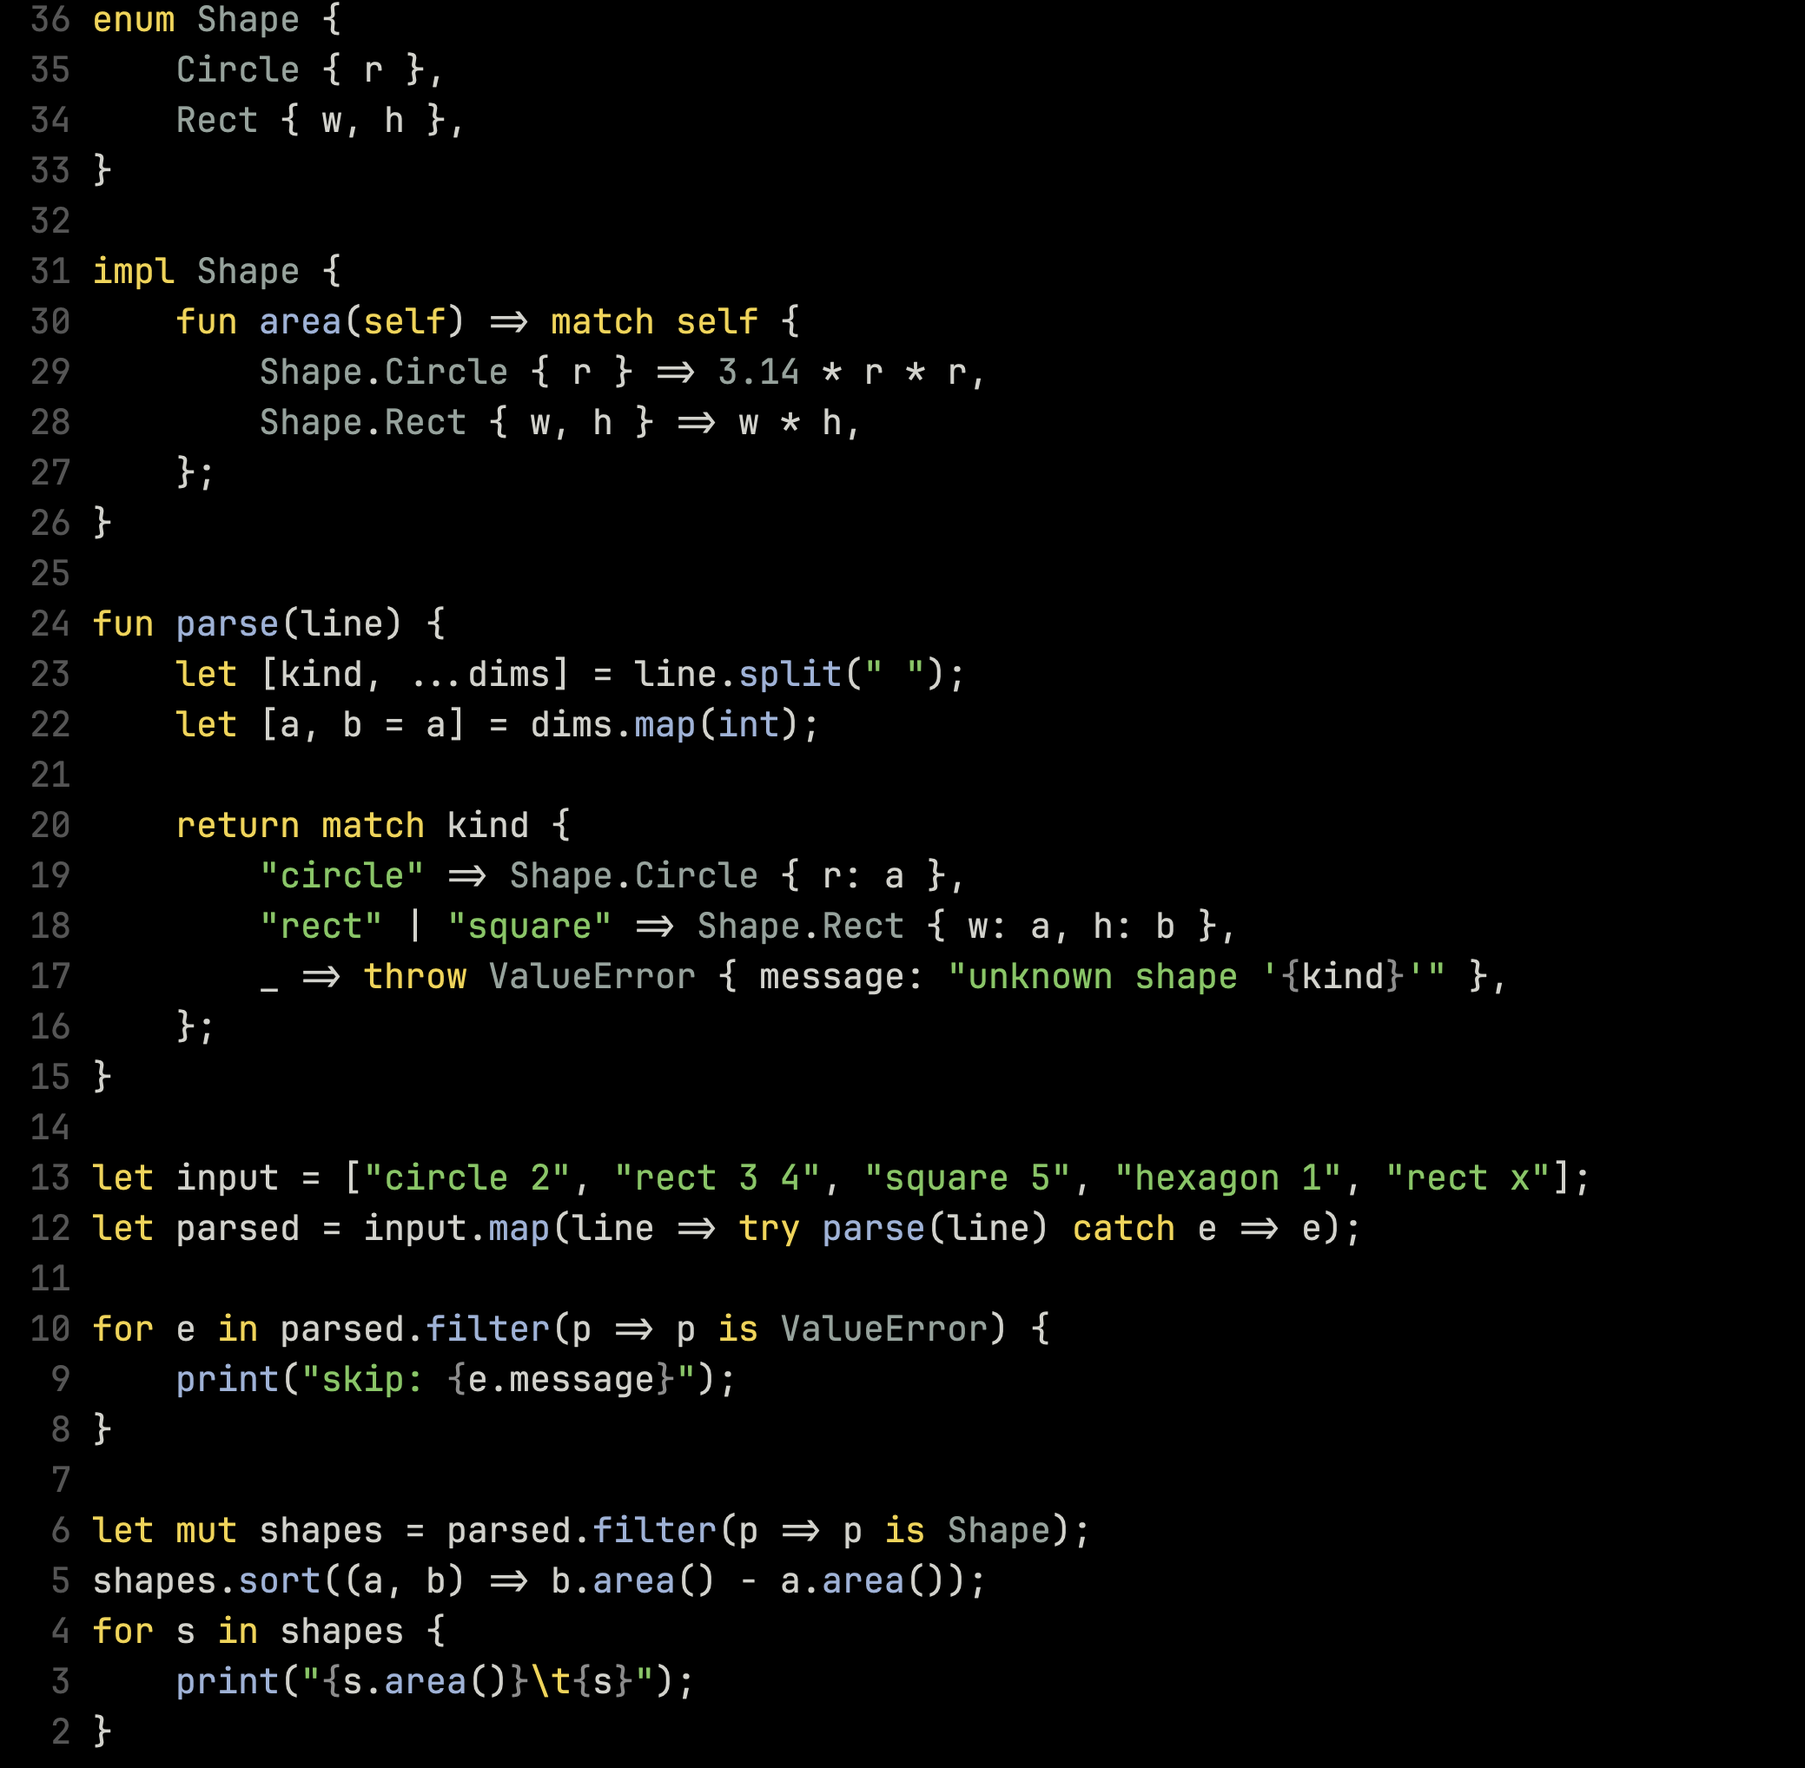
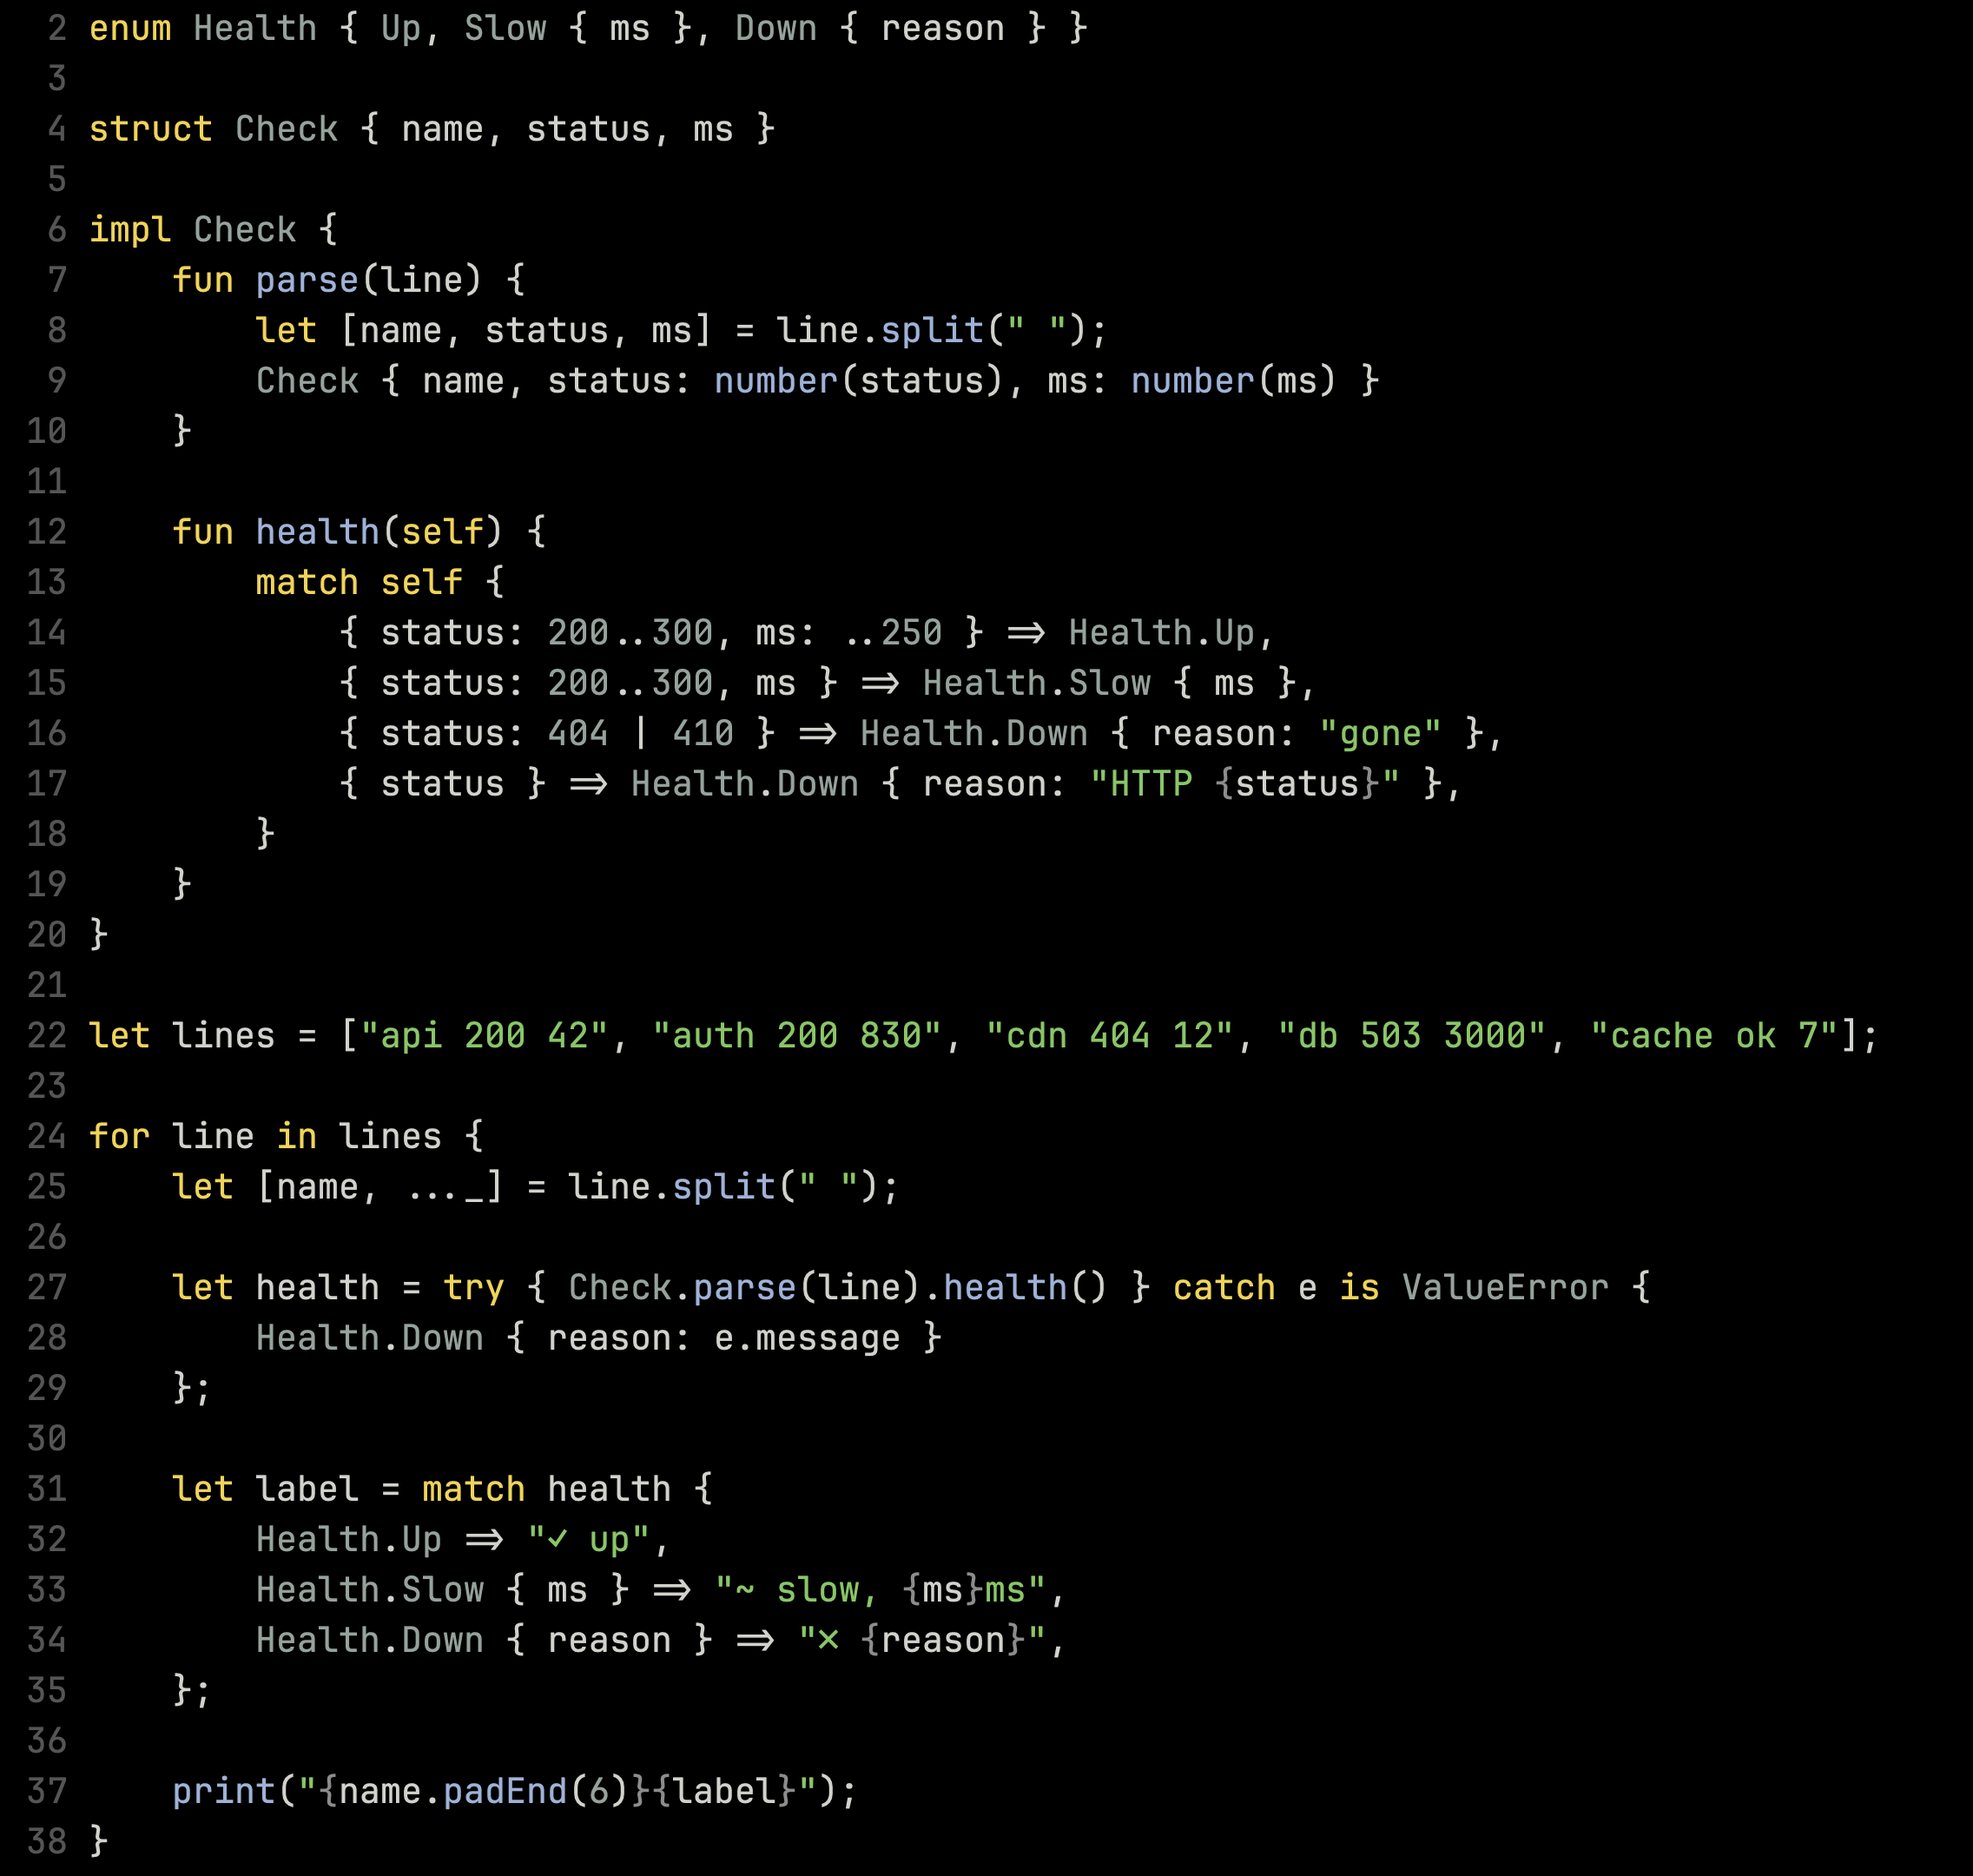
docs: new README example (#94)
New README screenshot: health checks via enum + impl, struct patterns
with ranges and `|`, `try`/`catch` by type as an expression. Output
block updated to match.

diff --git a/README.md b/README.md
@@ -20,11 +20,11 @@ compiled to register bytecode and run by a VM.
 <img src="assets/example.png" alt="Rune example" width="100%">
 
 ```
-skip: unknown shape 'hexagon'
-skip: int() cannot parse "x" as an integer.
-25      Shape.Rect {w: 5, h: 5}
-12.56   Shape.Circle {r: 2}
-12      Shape.Rect {w: 3, h: 4}
+api   ✓ up
+auth  ~ slow, 830ms
+cdn   ✗ gone
+db    ✗ HTTP 503
+cache ✗ number() cannot parse "ok" as a number.
 ```
 
 ## Features
